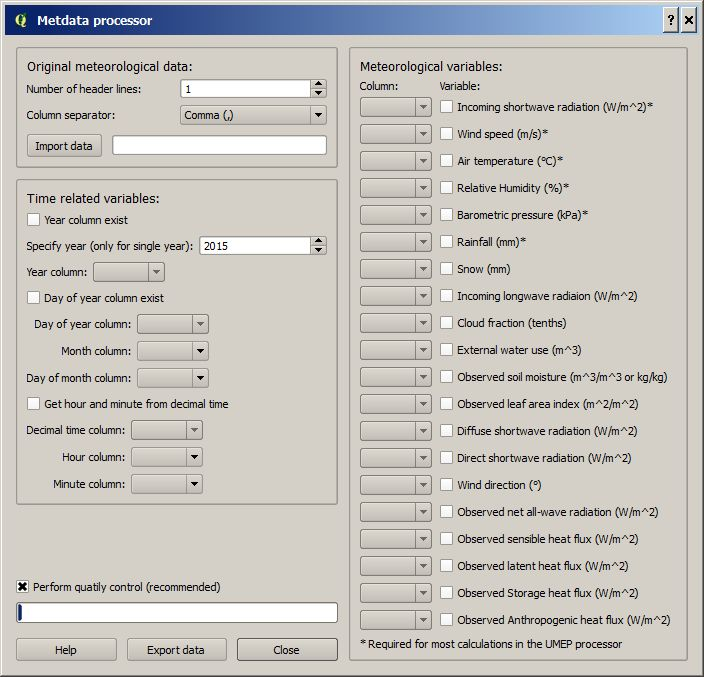
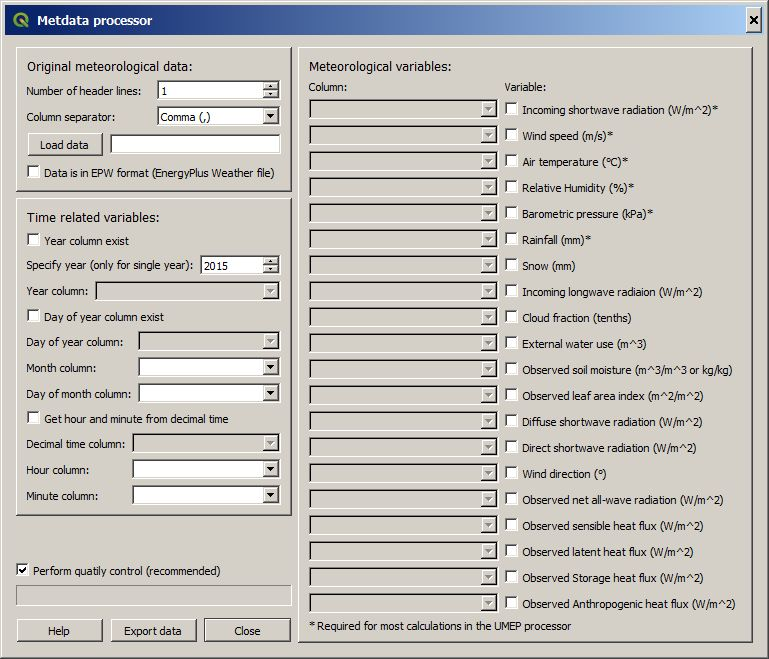
MetdataProcessor update

Changed region(s): [[0.0, 0.0, 1.0, 1.0]]

diff --git a/docs/source/pre-processor/Meteorological Data MetPreprocessor.rst b/docs/source/pre-processor/Meteorological Data MetPreprocessor.rst
@@ -3,20 +3,20 @@
 Meteorological Data: MetPreprocessor
 ~~~~~~~~~~~~~~~~~~~~~~~~~~~~~~~~~~~~
 * Contributor:
-.. list-table::
-   :widths: 50 50
-   :header-rows: 1
+   .. list-table::
+      :widths: 50 50
+      :header-rows: 1
 
-   * - Name
-     - Institution
+      * - Name
+        - Institution
 
-   * - Fredrik Lindberg
-     - Gothenburg
+      * - Fredrik Lindberg
+        - Gothenburg
 
 * Introduction
     MetPreprocessor can be used to transform required temporal meteorological data into the format used in UMEP. The following variables are usually required as a minimum: air temperature, relative humidity, barometric pressure, wind speed, incoming shortwave radiation and rainfall; if available, other variables can be supplied as well.
 
-    *Input data* can include any number of header lines and should be separated by conventional separators (e.g. comma, space, tab, etc). The *output format* is space-separated and includes time-related variables of year, day of year, hour and minute. The plugin is able to process other input time formats including month, day of month, etc.
+    *Input data* can include any number of header lines and should be separated by conventional separators (e.g. comma, space, tab, etc). The *output format* is space-separated and includes time-related variables of year, day of year, hour and minute. The plugin is able to process other input time formats including month, day of month, etc. Possibility to use an EnergyPlus Weather (.epw) is also available. Note that .epw-files rarely have precipitation data included. This is is required for SUEWS-modelling and need to be acquired from elsewhere (external dataset).
 
 * **Dialog box**
 .. figure::  /images/MetPreProcessor.jpg
@@ -29,14 +29,9 @@ Meteorological Data: MetPreprocessor
    :header-rows: 0
 
    * - top left
-     - Select an existing text file with meteorological data at a temporal resolution between 5 min and 180 min (3 hours) that is divisible by 5 min.
-          - Note the model runs at a time step of 5-min.
-          - At least hourly resolution is recommended.
-          - The current version of the SEBE-model (April, 2018) requires hourly data.
+     - Select an existing text file with meteorological data at a temporal resolution between 5 min and 180 min (3 hours) that is divisible by 5 min. Tick in EPW box to convert an EnergyPlus Weather file.
    * - middle left
      - Specify time-related columns in the imported data file.
-   * - lower left
-     - map extent is specified
    * - lower left
      - Perform quality control (recommended)
           - Select to perform a simple quality control which will check the input data for unreasonable values of each variable.
@@ -175,12 +170,9 @@ Meteorological Data: MetPreprocessor
      - 0 to 360
      -
 
-
-
 * Remarks
       #. If decimal time is ticked in, **day of year column** must be stated and the **decimal time column** should be numbers between 0 and 1.
-      #. If you have problems with importing a data set. Do a time series plot using small points. Check (1) are there any data gaps (there can be no gaps) (2) are the columns lined up throughout the data setes (e.g if variable suddenly changes incorrectly, you may have columns misaligned).
-      #. Gapfilling - there are a number of techniques that can be used for this
-         1. A fast way to get started (you can come back and refine to a more appropriate method)
-            1. Linear fit between one or two missing periods using the data on either
+      #. If you have problems with importing a dataset. Do a time series plot using small points. Check (1) are there any data gaps (there can be no gaps) (2) are the columns lined up throughout the data setes (e.g if variable suddenly changes incorrectly, you may have columns misaligned).
+      #. Gapfilling - there are a number of techniques that can be used for this e.g.:
+            #. Linear fit between one or two missing periods using the data on either
             #. Create diurnal average for each variabel for short periods (e.g. 2 weeks) and use these values to fill missing data
